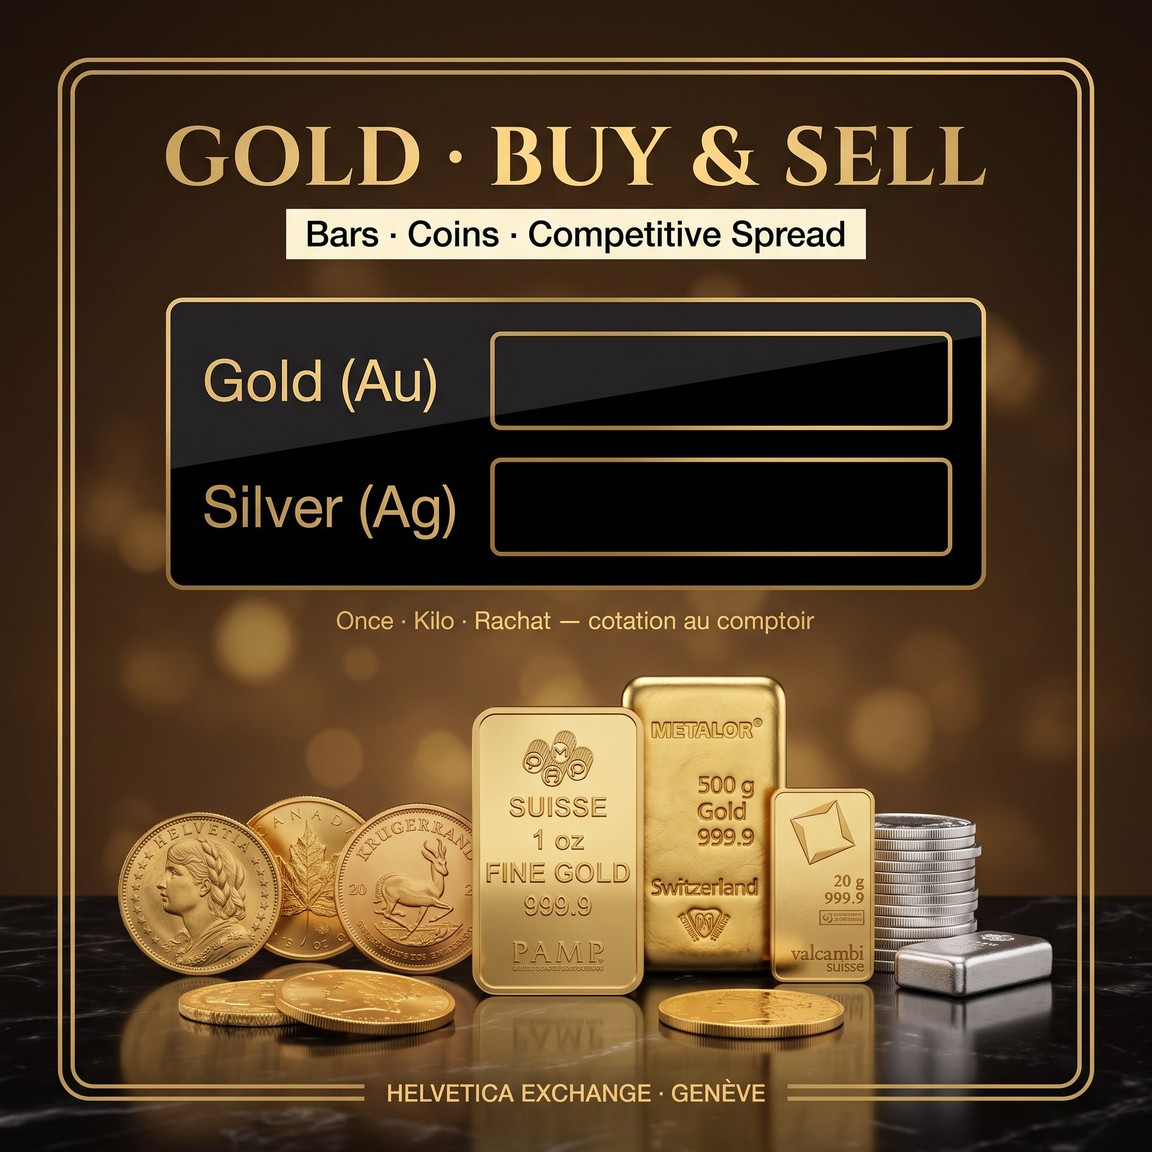
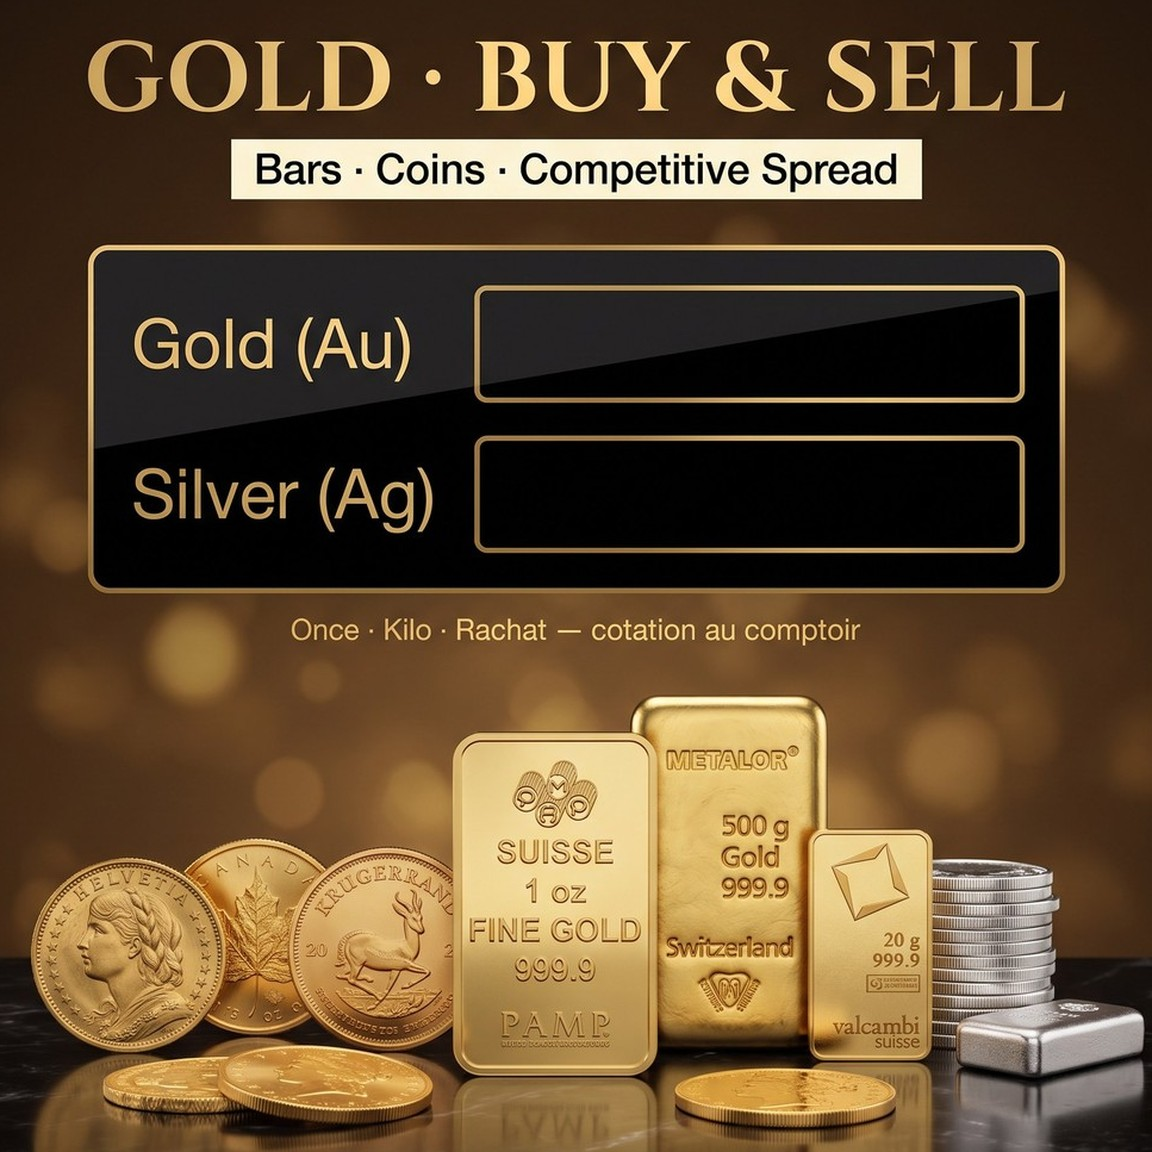
v3.8 panneau plein cadre + deltas lisibles + or fin centre aere + poincon 9s

diff --git a/v3/index.html b/v3/index.html
@@ -117,7 +117,7 @@ main{position:absolute;left:110px;right:110px;top:448px;bottom:472px;z-index:5}
   -webkit-background-clip:text;background-clip:text;color:transparent;
   filter:drop-shadow(0 6px 40px rgba(255,195,70,.55))}
 .gunit{font-size:46px;color:#e8c078;letter-spacing:.3em;margin-top:4px;font-family:Georgia,serif}
-.gline{display:grid;grid-template-columns:430px 470px 470px;justify-content:center;margin-top:30px}
+.gline{display:grid;grid-template-columns:340px 420px 420px 340px;justify-content:center;margin-top:30px}
 .gline>div{margin:0}
 .gline>div:first-child{grid-column:2}
 .gline b{display:block;font-size:78px;color:#ffe9a8;font-weight:600;font-variant-numeric:tabular-nums;
@@ -125,12 +125,12 @@ main{position:absolute;left:110px;right:110px;top:448px;bottom:472px;z-index:5}
 .gline span{display:block;font-size:33px;color:#dfae62;letter-spacing:.28em;margin-top:8px;font-family:Georgia,serif}
 .gsep{width:760px;height:2.5px;margin:32px auto 0;
   background:linear-gradient(90deg,transparent,#ffd76a,transparent);box-shadow:0 0 20px rgba(255,200,80,.6)}
-.arg{display:grid;grid-template-columns:430px 470px 470px;justify-content:center;
-  align-items:baseline;margin-top:26px}
-.arg .t{text-align:right;padding-right:34px;white-space:nowrap}
+.arg{display:grid;grid-template-columns:340px 420px 420px 340px;justify-content:center;
+  align-items:baseline;margin-top:22px}
+.arg .t{text-align:right;padding-right:28px;white-space:nowrap}
 .arg .ac{text-align:center;white-space:nowrap}
 .arg .ac b{margin-right:16px}
-.arg .t{font-size:54px;color:#f2f2f0;letter-spacing:.16em;text-shadow:0 0 26px rgba(240,240,240,.4)}
+.arg .t{font-size:42px;color:#f2f2f0;letter-spacing:.13em;text-shadow:0 0 26px rgba(240,240,240,.4)}
 .arg b{font-size:86px;color:#f5f0e2;font-weight:600;font-variant-numeric:tabular-nums;
   text-shadow:0 0 34px rgba(240,230,200,.5)}
 .arg span{font-size:37px;color:#cfc4ac;letter-spacing:.14em}
@@ -172,22 +172,22 @@ main{position:absolute;left:110px;right:110px;top:448px;bottom:472px;z-index:5}
   background-size:cover;background-position:center}
 #sc-goldpanel.on{opacity:1}
 #gp-img{position:absolute;left:0;top:0;width:2100px;height:2100px;object-fit:cover}
-.gp-cell{position:absolute;width:39.8%;height:7.8%;display:flex;align-items:center;
+.gp-cell{position:absolute;width:47.4%;height:9.3%;display:flex;align-items:center;
   padding:0 3.2% 0 2%;font-variant-numeric:tabular-nums;font-family:'Helvetica Neue',Arial,sans-serif}
 .gp-cell>b{flex:1;text-align:right}
-.gp-cell .u{width:158px;text-align:left}
-.gp-cell .gd{width:150px;margin-left:0}
-.gp-cell b{font-size:116px;font-weight:600;color:#fff3dd;
+.gp-cell .u{width:170px;text-align:left}
+.gp-cell .gd{width:210px;margin-left:0}
+.gp-cell b{font-size:128px;font-weight:600;color:#fff3dd;
   text-shadow:0 0 34px rgba(255,236,190,.7),0 0 9px rgba(255,246,220,.9)}
-.gp-cell .u{font-size:44px;color:#ffd76a;margin-left:26px;letter-spacing:.06em;
+.gp-cell .u{font-size:48px;color:#ffd76a;margin-left:26px;letter-spacing:.06em;
   text-shadow:0 0 16px rgba(255,190,80,.55)}
 .gp-cell .gd{text-align:center;line-height:1;display:inline-block}
-.gp-cell .gd b{display:block;font-size:54px;text-shadow:none}
-.gp-cell .gd span{display:block;font-size:24px;color:#dfae62;margin-top:5px;letter-spacing:.03em}
-.gp-cell .gd.up b{color:#7de87f;text-shadow:0 0 16px rgba(110,230,110,.6)}
-.gp-cell .gd.dn b{color:#ff6357;text-shadow:0 0 16px rgba(255,90,70,.6)}
-.gp-cell .gd i{display:block;font-style:normal;font-size:19px;color:#c9963e;
-  letter-spacing:.08em;font-variant:small-caps;margin-top:3px}
+.gp-cell .gd b{display:block;font-size:78px;text-shadow:none}
+.gp-cell .gd span{display:block;font-size:36px;color:#dfae62;margin-top:6px;letter-spacing:.03em}
+.gp-cell .gd.up b{color:#7de87f;text-shadow:0 0 18px rgba(110,230,110,.6)}
+.gp-cell .gd.dn b{color:#ff6357;text-shadow:0 0 18px rgba(255,90,70,.6)}
+.gp-cell .gd i{display:block;font-style:normal;font-size:26px;color:#c9963e;
+  letter-spacing:.08em;font-variant:small-caps;margin-top:4px}
 .gwref{font-size:26px;color:#c9963e;letter-spacing:.08em;font-variant:small-caps;
   margin-left:14px;display:none}
 .vsv{color:#c9963e;font-variant:small-caps;letter-spacing:.1em}
@@ -231,13 +231,13 @@ body.gpon .frame,body.gpon .corn{opacity:0;transition:opacity 1s ease}
   animation:rayswp 21s linear infinite}
 @keyframes rayswp{0%{background-position:220% 0}12%{background-position:-120% 0}100%{background-position:-120% 0}}
 /* ── v3.2 : LE FIL D'OR intégré à la page OR FIN — médaillon intraday (verdict Fafa) ── */
-#gwi{margin-top:26px;position:relative;width:1560px}
-#gwi svg{display:block;width:1560px;height:230px;overflow:visible}
+#gwi{margin-top:64px;position:relative;width:1560px}
+#gwi svg{display:block;width:1560px;height:188px;overflow:visible}
 #gwi-path{fill:none;stroke:#ffd76a;stroke-width:6;stroke-linecap:round;
   filter:drop-shadow(0 0 14px rgba(255,205,90,.45))}
 .gwi-lab{position:absolute;font-size:30px;color:#8a6b3a;font-family:Georgia,serif;letter-spacing:.08em}
 /* ── v3.7 : LA MÉMOIRE D'OR — 7 jours d'or en barres discrètes (données réelles) ── */
-#gw7{position:absolute;right:4px;top:-64px;display:flex;align-items:flex-end;height:56px}
+#gw7{position:absolute;right:4px;top:-44px;display:flex;align-items:flex-end;height:42px}
 #gw7 i{display:block;width:13px;margin-left:6px;border-radius:2px 2px 0 0;
   background:linear-gradient(180deg,#9a7a42,#5d4623)}
 #gw7 i.today{background:linear-gradient(180deg,#fff0c0,#ffd76a);box-shadow:0 0 12px rgba(255,215,106,.55)}
@@ -250,7 +250,7 @@ body.gpon .frame,body.gpon .corn{opacity:0;transition:opacity 1s ease}
 /* ── v3.7 : LE POULS — le point du pied de page bat à chaque mise à jour des taux ── */
 @keyframes beatx{0%{transform:scale(1)}30%{transform:scale(1.9);box-shadow:0 0 34px #ffd76a}100%{transform:scale(1)}}
 .dot.beatx{animation:beatx .9s ease}
-#gwi-cap{margin-top:10px;font-size:35px;letter-spacing:.2em;color:#c9963e;font-family:Georgia,serif}
+#gwi-cap{margin-top:18px;font-size:35px;letter-spacing:.2em;color:#c9963e;font-family:Georgia,serif}
 #gwi-cap b{font-weight:600;color:#7de87f;text-shadow:0 0 16px rgba(110,230,110,.5)}
 #gwi-cap b.dn{color:#ff6357;text-shadow:0 0 16px rgba(255,90,70,.5)}
 #gwi-cap .gwv{font-variant:small-caps;letter-spacing:.08em;display:none}
@@ -362,7 +362,7 @@ footer{position:absolute;left:110px;right:110px;bottom:118px;z-index:6;text-alig
       </div>
       <div id="gwi">
         <div id="gw7"></div>
-        <svg viewBox="0 0 1560 230" preserveAspectRatio="none">
+        <svg viewBox="0 0 1560 188" preserveAspectRatio="none">
           <path id="gwi-path"/>
           <circle id="gwi-tip" r="10" fill="#fff0c0" opacity="0"/>
         </svg>
@@ -419,8 +419,8 @@ footer{position:absolute;left:110px;right:110px;bottom:118px;z-index:6;text-alig
   <section id="sc-goldpanel">
     <img id="gp-img" alt="">
     <div class="ray"></div>
-    <div class="gp-cell" style="left:42.7%;top:29.2%"><b id="gpc-au-g">117.40</b><span class="u">CHF/g</span><span class="gd" id="gpd-au"><b>▲</b><span>—</span></span></div>
-    <div class="gp-cell" style="left:42.7%;top:40.1%"><b id="gpc-ag-g">1.78</b><span class="u">CHF/g</span><span class="gd" id="gpd-ag"><b>▲</b><span>—</span></span></div>
+    <div class="gp-cell" style="left:41.3%;top:25.2%"><b id="gpc-au-g">117.40</b><span class="u">CHF/g</span><span class="gd" id="gpd-au"><b>▲</b><span>—</span></span></div>
+    <div class="gp-cell" style="left:41.3%;top:38.2%"><b id="gpc-ag-g">1.78</b><span class="u">CHF/g</span><span class="gd" id="gpd-ag"><b>▲</b><span>—</span></span></div>
   </section>
 
   <!-- PAGE BILLETS : panneau complet généré (éventail superréaliste, textes fondus) -->
@@ -1091,7 +1091,7 @@ function cycle(){
   seq.push(['gold', hasHook?13000:15000]);   /* v3.2 : OR FIN + fil d'or intégré */
   seq.push(['gold*', hasHook?13000:15000]);  /* panneau lingots (image) */
   seq.push(['msg', hasHook?8000:10000]);
-  seq.push(['stamp',2400]);
+  seq.push(['stamp',9000]);   /* verdict Fafa 22.08 : le poinçon reste 8-10 s */
   var i=0;
   (function nx(){
     var s=seq[i%seq.length], name=s[0];
@@ -1148,7 +1148,7 @@ function renderWeek(){
   if(mx-mn < 0.3){ var c=(mx+mn)/2; mn=c-0.15; mx=c+0.15; }
   var h='' ,i;
   for(i=0;i<vals.length;i++){
-    var hh = 16 + Math.round(40*(vals[i]-mn)/(mx-mn));
+    var hh = 12 + Math.round(30*(vals[i]-mn)/(mx-mn));
     h += '<i style="height:'+hh+'px"'+(i===vals.length-1?' class="today"':'')+'></i>';
   }
   host.innerHTML = h;   /* les 7 barres parlent d'elles-mêmes (la dernière = aujourd'hui, en or vif) */
@@ -1156,7 +1156,7 @@ function renderWeek(){
 loadWeek(); setInterval(loadWeek, 3600000);
 function drawWire(){
   if(gwPts.length<2) return;
-  var W=1560,H=230,P=38, i, mn=1e12, mx=-1e12, t0=gwPts[0][0], t1=gwPts[gwPts.length-1][0];
+  var W=1560,H=188,P=32, i, mn=1e12, mx=-1e12, t0=gwPts[0][0], t1=gwPts[gwPts.length-1][0];
   for(i=0;i<gwPts.length;i++){ if(gwPts[i][1]<mn)mn=gwPts[i][1]; if(gwPts[i][1]>mx)mx=gwPts[i][1]; }
   if(mx-mn < 0.2){ var c=(mx+mn)/2; mn=c-0.1; mx=c+0.1; }
   var d='';
